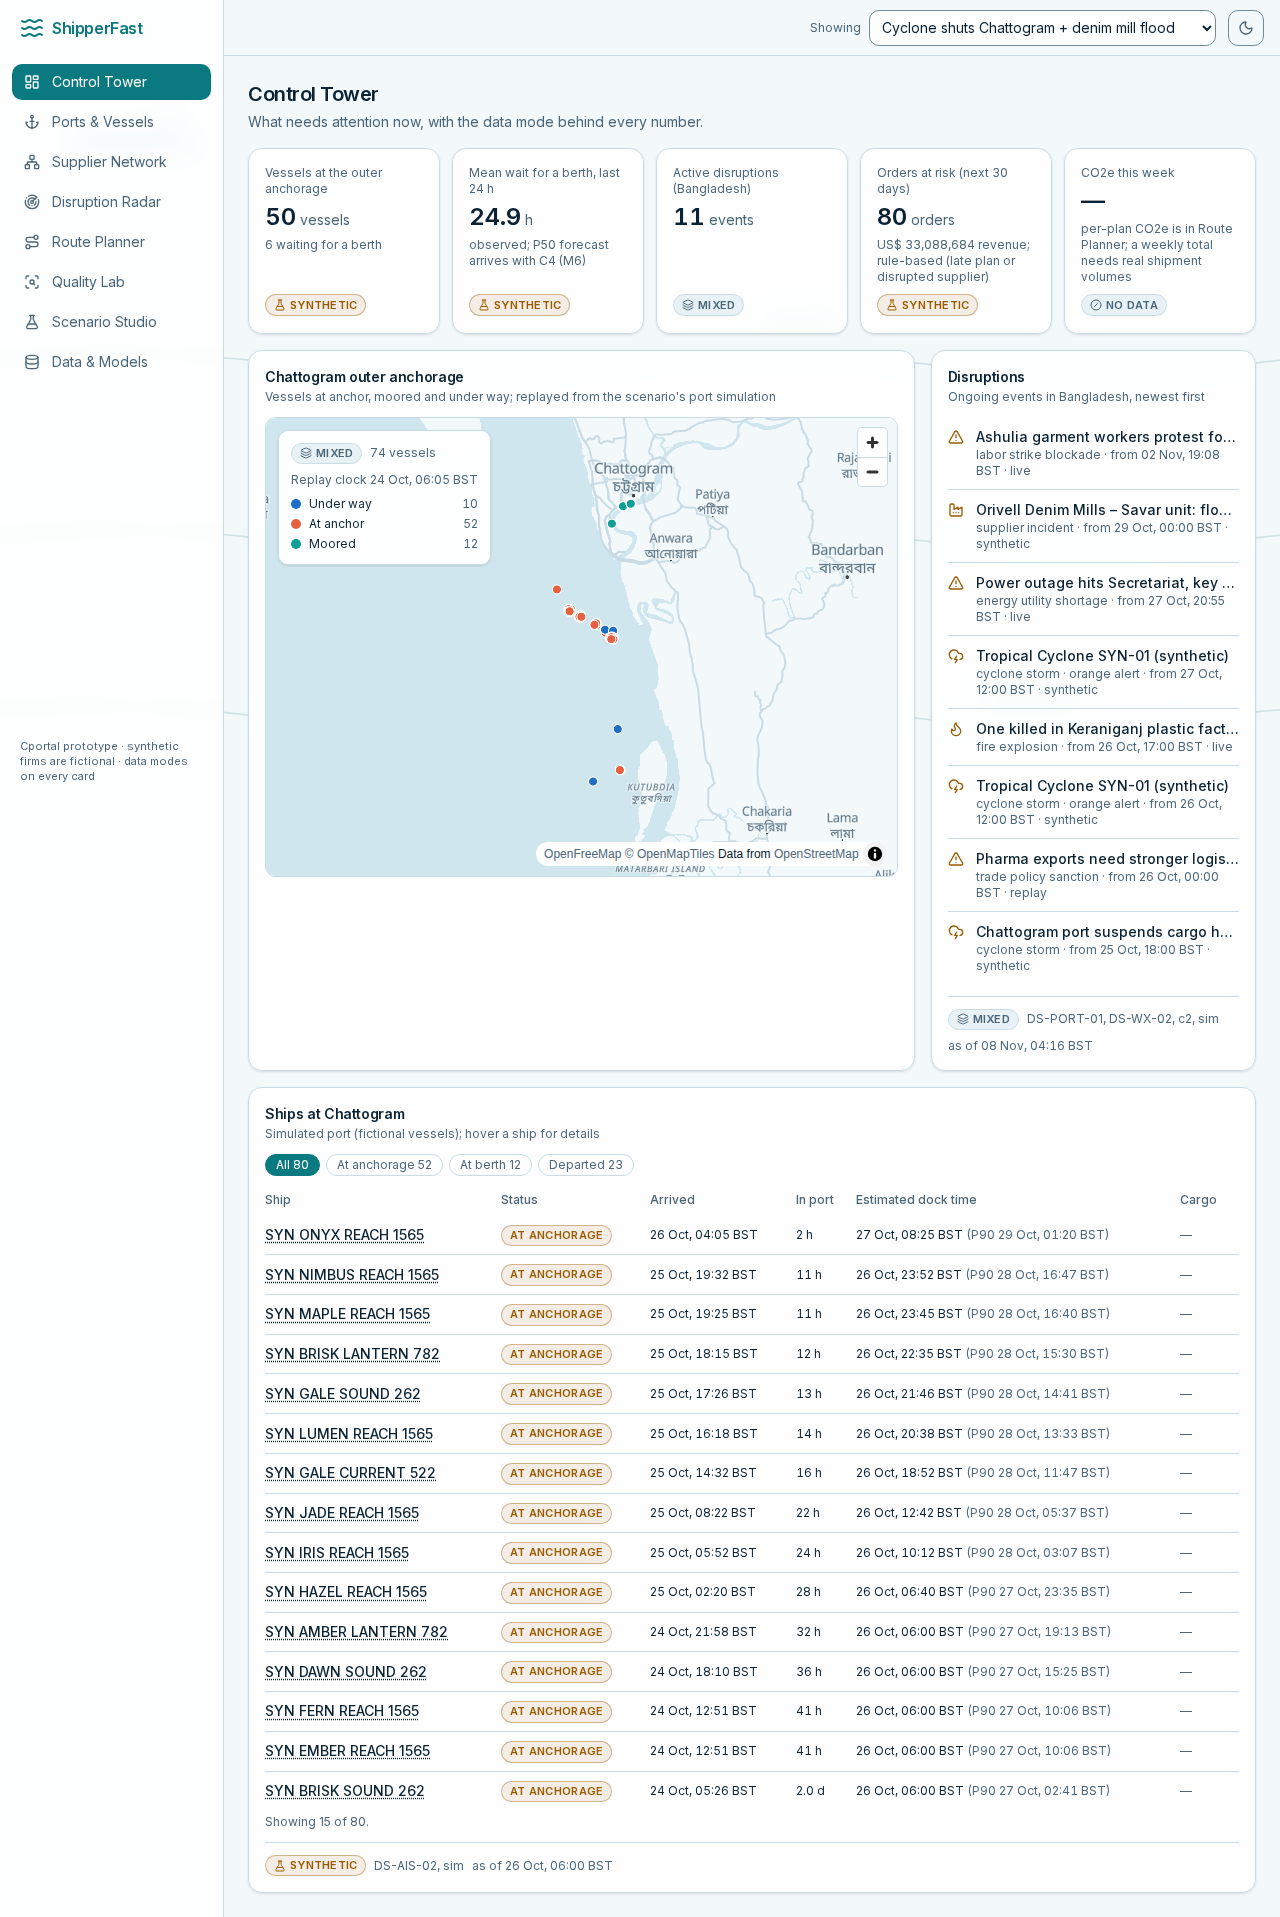
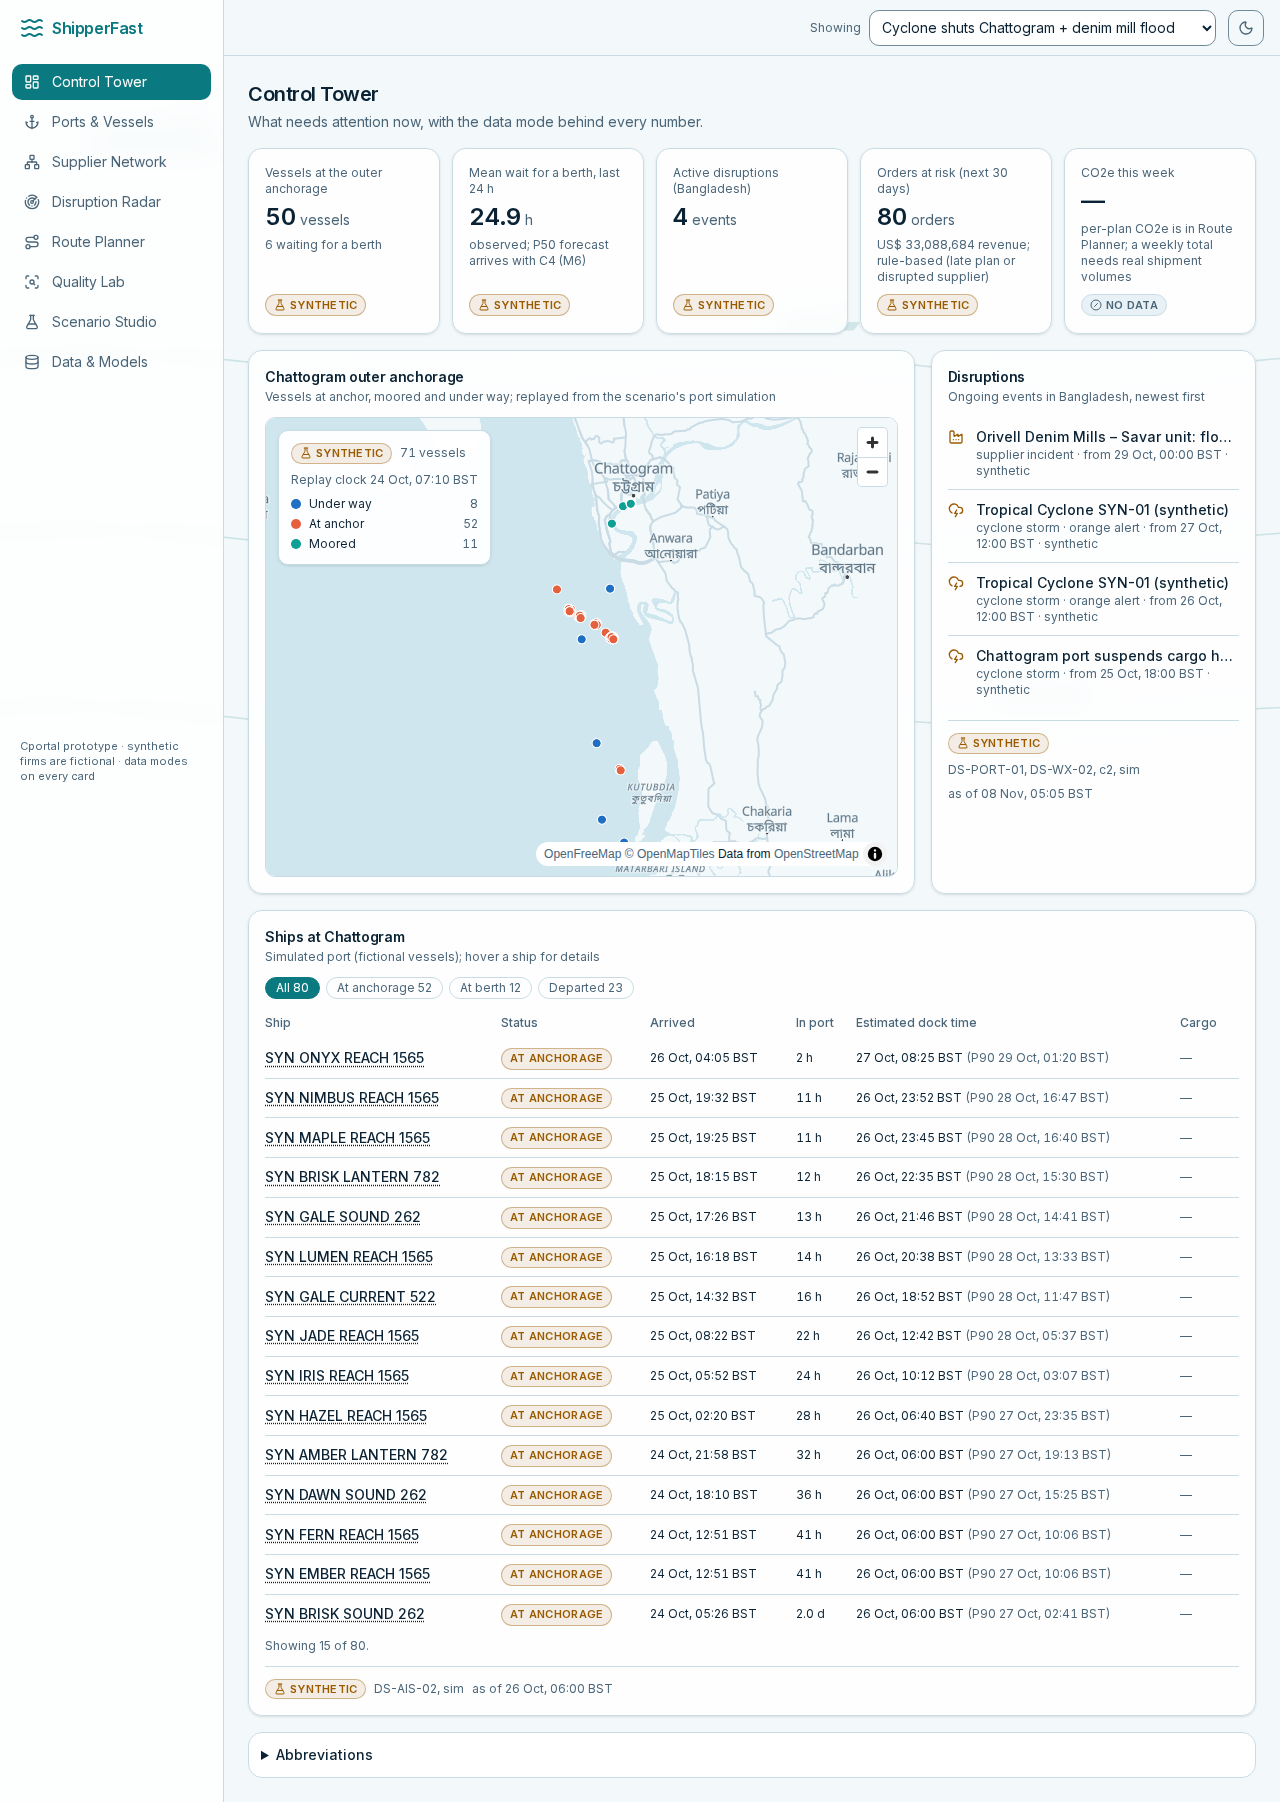
chore: refresh UI screenshots, user task and kickoff notes; keep DataDocked samples out of git (A-104)

diff --git a/docs/USER_TASKS.md b/docs/USER_TASKS.md
@@ -33,9 +33,8 @@ tell the agent; each item says where its result goes.
       already there; extracting over it is fine. Licence CC BY-NC-SA 4.0 (non-commercial).
 - [x] **CLIP weights for AnomalyCLIP (C5-AC01):** download ViT-L/14@336px (934 MB, MIT) from
       https://openaipublic.azureedge.net/clip/models/3035c92b350959924f9f00213499208652fc7ea050643e8b385c2dac08641f02/ViT-L-14-336px.pt
-      to `data/cache/aclip/clip/ViT-L-14-336px.pt`. A partial 172 MB file from the agent's
-      interrupted download is there; overwrite it. Check: `sha256sum` starts with `3035c92b`.
-- [x] **Run the AnomalyCLIP baseline (C5-AC01):** the repo clone, CPU venv and split manifest are
+      to `data/cache/aclip/clip/ViT-L-14-336px.pt`. A partial 172 MB file from the agent's interrupted download is there; overwrite it. Check: `sha256sum` starts with `3035c92b`.
+- [ x] **Run the AnomalyCLIP baseline (C5-AC01):** the repo clone, CPU venv and split manifest are
       ready in `data/cache/aclip/` (setup: `packages/c5_defect_intel/baselines/README.md`). From
       the repo root (≈ 1–2 h on CPU; results are saved per category):
       `A=data/cache/aclip; $A/venv/bin/python -I packages/c5_defect_intel/baselines/anomalyclip_eval.py --repo $PWD/$A/repo --manifest $A/manifest.json --clip-cache $PWD/$A/clip --out docs/model-cards/c5-eval-anomalyclip.json --categories pill capsule stitch carpet leather --threads 4`

diff --git a/KICKOFF_PROMPT.md b/KICKOFF_PROMPT.md
@@ -28,3 +28,8 @@ Open `cportal/` as the workspace root, so `AGENTS.md` is picked up. Paste **Prom
 ## Prompt 3: Unblock or correct the agent
 
 > Pause. Re-read `AGENTS.md` §4 (hard rules) and §7 (ask, don't assume). Tell me which assumption you made that isn't backed by the brief or `docs/DECISIONS.md`, what evidence you have for it, and the options. Then wait.
+
+for the background add some ships or animations and the overlays on top as cards with rounded corners and of background softblur
+
+for additional data and api I have added the DataDocked API this website does promise to have maritime data . just use it to see if it can provide you with the data you need for any of the milestones. 
+Also for the danish AIS i didnt find the api, but they do have historical data which i have downloaded and kept in the data folder 
